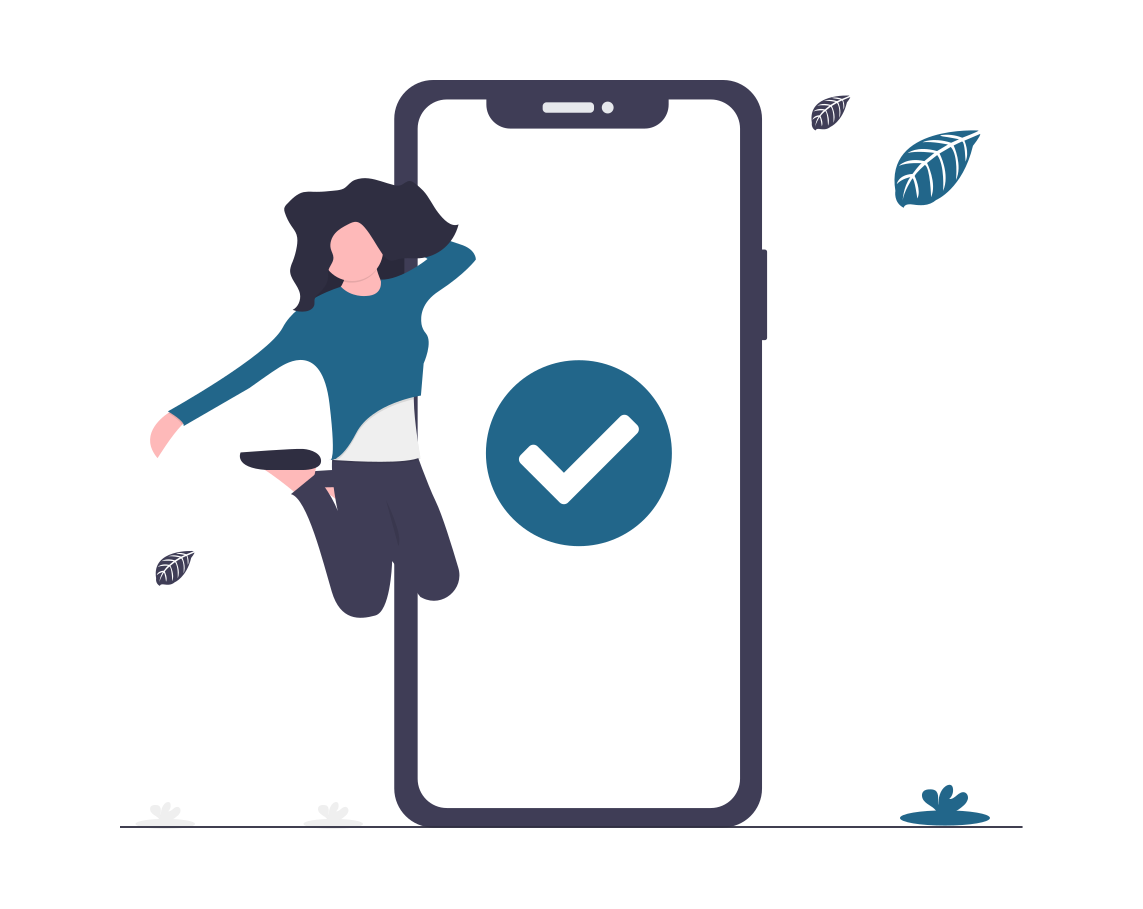
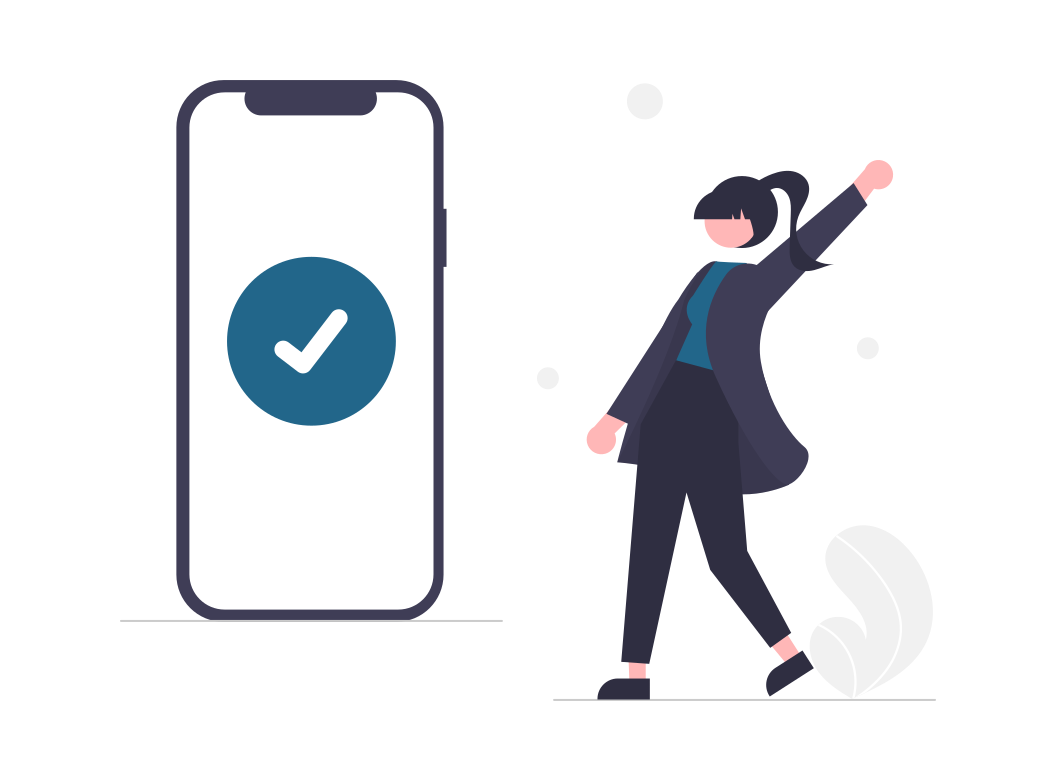
Kasir App

Changed region(s): [[0.125, 0.0615, 0.9062, 0.9219]]

diff --git a/KasirApp/kasir-app/src/App.js b/KasirApp/kasir-app/src/App.js
@@ -1,11 +1,7 @@
-import React, { Component } from 'react'
-import {
-  BrowserRouter,
-  Routes,
-  Route,
-} from "react-router-dom";
-import { NavbarComponents } from './components'
-import { Home, Sukses } from './pages'
+import React, { Component } from 'react';
+import { BrowserRouter, Routes, Route } from "react-router-dom";
+import { NavbarComponents } from './components';
+import { Home, Sukses } from './pages';
 
 export default class App extends Component {
   render() {
@@ -14,11 +10,11 @@ export default class App extends Component {
           <NavbarComponents />
           <main>
             <Routes>
-              <Route  path="/" component={Home} exact/>
-              <Route  path="/sukses" component={Sukses} exact/>
+              <Route  path="/" element={<Home/>} />
+              <Route  path="/sukses" element={<Sukses/>} />
             </Routes>
           </main>
       </BrowserRouter>
-    )
+    );
   }
 }

diff --git a/KasirApp/kasir-app/src/pages/Sukses.js b/KasirApp/kasir-app/src/pages/Sukses.js
@@ -1,10 +1,18 @@
 import React, { Component } from 'react'
+import { Button, Image } from 'react-bootstrap'
+import { Link } from "react-router-dom";
+
 
 export default class Sukses extends Component {
   render() {
     return (
-      <div>
-        <h2>Sukses</h2>
+      <div className="mt-4 text-center">
+        <Image src="assets/images/sukses.png" width="500" />
+        <h2>Sukses Pesan</h2>
+        <p>Terimakasih Sudah Memesan!</p>
+        <Button variant="primary" as={Link} to="/">
+          Kembali
+        </Button>
       </div>
     )
   }

diff --git a/KasirApp/kasir-app/src/index.css b/KasirApp/kasir-app/src/index.css
@@ -14,6 +14,10 @@ body {
   color: white;
 }
 
+.btn-primary {
+  background-color: #22668A;
+}
+
 code {
   font-family: source-code-pro, Menlo, Monaco, Consolas, 'Courier New',
     monospace;
